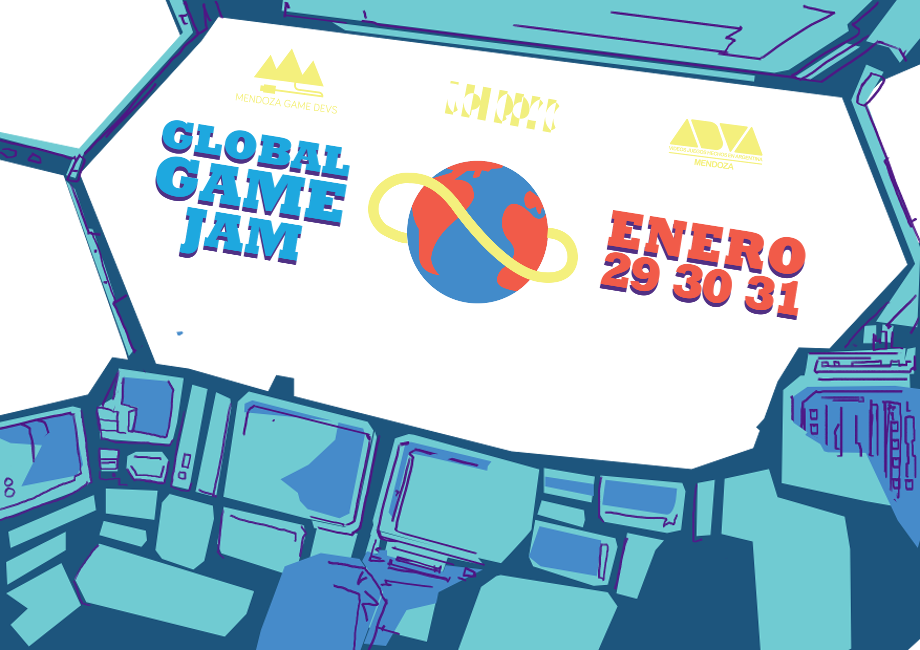
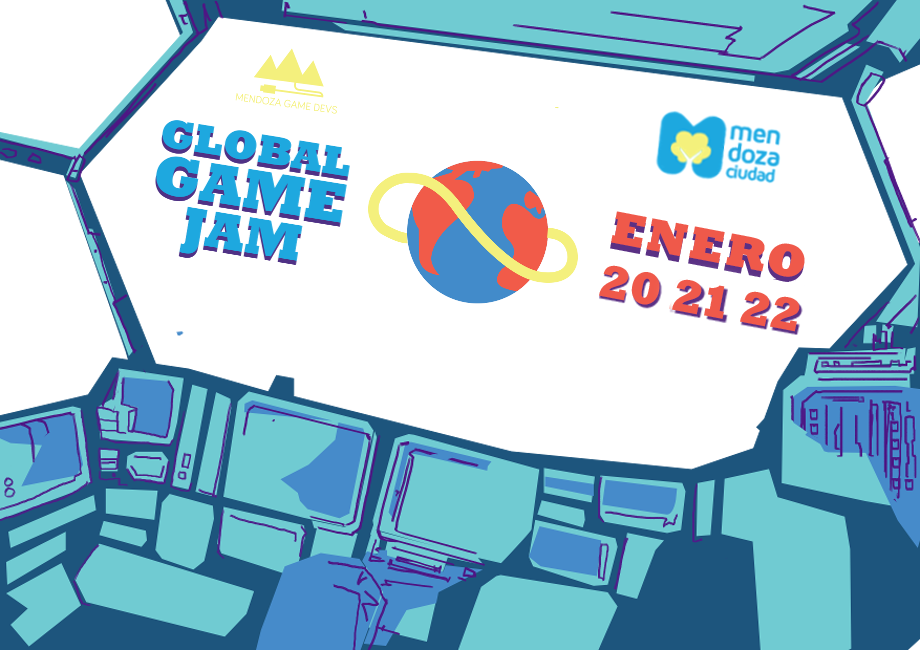
version 2017

Changed region(s): [[0.6391, 0.3077, 0.8826, 0.5231], [0.7, 0.1538, 0.8522, 0.2769], [0.487, 0.1231, 0.6087, 0.2154]]

diff --git a/index.html b/index.html
@@ -4,11 +4,11 @@
     <meta charset="utf-8">
     <title>Global Game Jam Mendoza 2016</title>
     <meta name="viewport" content="width=device-width, initial-scale=1.0">
-    <meta name="description" content="Global Game Jam Mendoza 2016 es un evento de desarrollo de juegos que se realiza en Espacio Julio Le Parc el 29 30 y 31 de Enero.">
+    <meta name="description" content="Global Game Jam Mendoza 2017 es un evento de desarrollo de juegos que se realiza en el CIC Nº 1 el 20 21 y 22 de Enero.">
     <meta property="og:url" content="http://www.globalgamejammendoza.com/" />
-    <meta property="og:title" content="Global Game Jam Mendoza 2016" />
-    <meta property="og:description" content="Global Game Jam Mendoza 2016 es un evento de desarrollo de juegos que se realiza en Espacio Julio Le Parc el 29 30 y 31 de Enero." />
-    <meta property="og:image" content="http://www.globalgamejammendoza.com/img/bannerGGJ2016.png" />
+    <meta property="og:title" content="Global Game Jam Mendoza 2017" />
+    <meta property="og:description" content="Global Game Jam Mendoza 2017 es un evento de desarrollo de juegos que se realiza en el CIC Nº 1 el 20 21 y 22 de Enero." />
+    <meta property="og:image" content="http://www.globalgamejammendoza.com/img/bannerGGJ2017.png" />
 	<link href="img/favicon/favicon.ico" rel="shortcut icon" />
 
 
@@ -55,8 +55,8 @@
           </ul>
           <hr id="hrHeaderResponsive">
           <div id="fecha">
-            <p class="lugar">Mendoza 2016</p>
-            <p><span class="dias">29 30 31</span> <span class="mes">Enero</span></p>
+            <p class="lugar">Mendoza 2017</p>
+            <p><span class="dias">20 21 22</span> <span class="mes">Enero</span></p>
           </div>
         </div>
 
@@ -64,7 +64,7 @@
 
         <div class="jumbotron">
           <!--h1><img id="ggjm-logo" src="img/logov2.png"></h1-->
-          <a class="btn btn-large btn-success" href="https://www.eventbrite.com.ar/e/global-game-jam-2016-mendoza-argentina-tickets-20986187251" target="_blank">¡Registrate!</a>
+          <a class="btn btn-large btn-success" href="https://www.eventbrite.com.ar/e/global-game-jam-mendoza-2017-tickets-30651377094" target="_blank">¡Registrate!</a>
         </div>
         <div class="redesSociales">
           <span class='st_facebook_hcount' displayText='Facebook'></span>
@@ -78,12 +78,10 @@
       </div>
 
       <div id="sponsors" class="featurette">
-            <img src="img/sponsors/MGD.png" alt="Mendoza Game Devs" title="Mendoza Game Devs" />
-            <a href="http://www.adva.com.ar/" target="_blank"><img src="img/sponsors/ADVA-Mendoza.png" alt="ADVA Mendoza" title="ADVA Mendoza" /></a>
+            <a href="http://mendozagamedevs.com/" target="_blank"><img src="img/sponsors/MGD.png" alt="Mendoza Game Devs" title="Mendoza Game Devs" /></a>
             <a href="http://globalgamejam.org/" target="_blank"><img src="img/sponsors/ggj.jpg" alt="Global Game Jam" title="Global Game Jam" /></a>
 
-            <a href="http://www.espacioleparc.com/" target="_blank"><img src="img/sponsors/Le_Parc.jpg" alt="Espacio Julio Le Parc" title="Espacio Julio Le Parc" /></a>
-            <a href="http://espacioleparc.com/industrias-creativas" target="_blank"><img src="img/sponsors/industrias.jpg" alt="Dirección de Industrias Creativas" title="Dirección de Industrias Creativas" /></a>
+            <a href="http://ciudaddemendoza.gov.ar/" target="_blank"><img src="img/sponsors/mendoza-ciudad-logo-modificado.png" alt="Municipalidad de la Ciudad de Mendoza" title="Municipalidad de la Ciudad de Mendoza" /></a>
       </div>
 
       <hr class="featurette-divider">
@@ -95,7 +93,7 @@
 
         <p class="lead">Imaginate una hackathon centrada en el desarrollo de juegos de mesa o de video, que es simultánea en más de 600 sedes en 87 países y con 48 horas para terminar tu proyecto con gente que tiene el mismo gusto por la creatividad y los juegos que vos...eso es la  <a class="link" href="http://globalgamejam.org" target="_blank">Global Game Jam</a>.</p>
 
-        <p>En Argentina se realiza en Buenos Aires, La Plata, Mar del Plata, Santa Fe, Tucumán, Córdoba, San Juan, Tucumán y aquí en Mendoza, que tendrá sede por quinto año consecutivo, esta vez en el Espacio Julio Le Parc.</p>
+        <p>En Argentina se realiza en Buenos Aires, La Plata, Mar del Plata, Santa Fe, Tucumán, Córdoba, San Juan, Tucumán y aquí en Mendoza, que tendrá sede por quinto año consecutivo, esta vez en el Centro Integrador Comunitario Nº 1.</p>
 
         <p>La dinámica es la siguiente:
           <ul id="dinamica" class="miLista">
@@ -114,42 +112,21 @@
       <div class="featurette" id="dondeEs">
 	  <br>
         <div class="featurette pull-left" id="mapa">
-        <iframe width="425" height="350" frameborder="0" scrolling="no" marginheight="0" marginwidth="0" src="http://www.openstreetmap.org/export/embed.html?bbox=-68.81778001785278%2C-32.89184923347813%2C-68.81048440933228%2C-32.883975041355555&amp;layer=transportmap&amp;marker=-32.88791222488603%2C-68.81413221359253" style="border: 1px solid black"></iframe><br/><small><a href="http://www.openstreetmap.org/?mlat=-32.88791&amp;mlon=-68.81413#map=17/-32.88791/-68.81413&amp;layers=T">Ver Mapa más grande</a></small>
+        <iframe width="425" height="350" frameborder="0" scrolling="no" marginheight="0" marginwidth="0" src="http://www.openstreetmap.org/export/embed.html?bbox=-68.8336325%2C-32.8627521%2C-68.8336325%2C-32.8627521&amp;layer=transportmap&amp;marker=-32.8627521%2C-68.8336325" style="border: 1px solid black"></iframe><br/><small><a href="http://www.openstreetmap.org/?mlat=-32.8627521&amp;mlon=-68.8336325#map=17/-32.8627521/-68.8336325&amp;layers=T">Ver Mapa más grande</a></small>
 
-        <p>Sitio web <a class="link" href="http://espacioleparc.com"  target="_blank">Espacio Julio Le Parc.</a></p>
+        <p>Centro Integrador Comunitario (CIC) Nº 1</p>
         </div>
 		<div class="pull-right">
-        <h2 class="featurette-heading"><span class="muted">Se realizará en el </span>Espacio Julio Le Parc.</h2>
-        <p class="lead">Ubicado en Mitre y Godoy Cruz, San José, Guaymallén.</p>
+        <h2 class="featurette-heading"><span class="muted">Se realizará en el </span>C.I.C. Nº 1.</h2>
+        <p class="lead">Ubicado en 9 de Julio 3565, Ciudad de Mendoza.</p>
         <p><h3>¿Cómo llegar?</h3></p>
-        <p><h4>Grupo 2</h4></p>
         <ul class="miLista">
-          <li> Línea B21 Rodeo de la Cruz por Godoy Cruz</li>
-          <li>Línea B22 Corralitos por Godoy Cruz</li>
-          <li>Línea B23 Santa Ana por Godoy Cruz</li>
-          <li>Línea B24 Primavera por Godoy Cruz</li>
-          <li>Línea B25 Buena Nueva por Godoy Cruz</li>
-          <li>Línea B26 Paraguay</li>
-          <li>Línea B27 Colonia Segovia</li>
-          <li>Línea B27 Escorihuela por Godoy Cruz</li>
-        </ul>
-        <p><h4>Grupo 5</h4></p>
-        <ul class="miLista">
-          <li> Línea 72 San Ignacio - Terminal por Colón</li>
-          <li>Línea 72 San Ignacio por Colón</li>
-          <li>Línea 71 Guaymallén - Godoy Cruz por O'Brian</li>
-          <li>Línea 71 Guaymallén - Godoy Cruz por Terminal</li>
-        </ul>
-        <p><h4>Grupo 10</h4></p>
-        <ul class="miLista">
-          <li>Línea 171-173 Maipú por Rodeo de la Cruz</li>
-          <li>Línea 173-171 Maipú - Rodríguez Peña - Rodeo de la Cruz</li>
-          <li>Línea 173-172 Maipú - Ortega - Rodeo de la Cruz</li>
-          <li>Línea 171 Maipú - V. Viñedo - Rodeo de la Cruz</li>
-        </ul>
-        <p><h4>Trole</h4></p>
-        <ul class="miLista">
-          <li>Trole Línea Villa Nueva</li>
+          <li>Línea 63</li>
+          <li>Línea 66</li>
+          <li>Línea 68</li>
+          <li>Línea 84</li>
+          <li>Línea 86</li>
+          <li>Línea 92 (llega a 5 cuadras)</li>
         </ul>
 		</div>
       </div>
@@ -157,13 +134,13 @@
       <hr class="featurette-divider">
 
       <div class="featurette" id="cuandoEs">
-        <img class="featurette-image pull-right" id="imgLeParc" src="img/leparc.jpg">
-        <h2 class="featurette-heading"><span class="muted">Los días </span>29, 30 y 31 de Enero</h2>
+        <img class="featurette-image pull-right" id="imgLeParc" src="img/CIC.jpg">
+        <h2 class="featurette-heading"><span class="muted">Los días </span>20, 21 y 22 de Enero</h2>
         <p class="lead">La sede Mendoza tiene estos horarios:</p>
         <ul id="horarios">
-          <li>Viernes 29 <span class="horario">de 15:00 a 21hs</span></li>
-          <li>Sábado 30 <span class="horario">de 9 a 21hs</span></li>
-          <li>Domingo 31 <span class="horario">de 9 a 21hs</span></li>
+          <li>Viernes 20 <span class="horario">de 17:00 a 21hs</span></li>
+          <li>Sábado 21 <span class="horario">de 9 a 21hs</span></li>
+          <li>Domingo 22 <span class="horario">de 9 a 21hs</span></li>
         </ul>
       </div>
 
@@ -172,7 +149,7 @@
           <p class="pull-right">
 			  <a class="link" href="javascript:$.scrollTo('#top-sitio',800);"><img src="img/arriba.png">Subir</a>
 		  </p>
-		  <p><h3 class="featurette-heading"><span class="muted">Hashtag </span>#MendozaGGJ16</h3></p>
+		  <p><h3 class="featurette-heading"><span class="muted">Hashtag </span>#MendozaGGJ17</h3></p>
 		  <p><h4><a class="link" href="https://www.facebook.com/pages/Global-Game-Jam-Mendoza/146371642143127?ref=ts"  target="_blank"><strong>sitio en facebook</strong></a><span class="muted"> del evento. Dale Like!<span></h4></p>
           <iframe class="pull-left" src="https://www.facebook.com/plugins/like.php?href=https://www.facebook.com/pages/Global-Game-Jam-Mendoza/146371642143127?ref=ts&fref=ts"
         scrolling="no" frameborder="0"></iframe>
